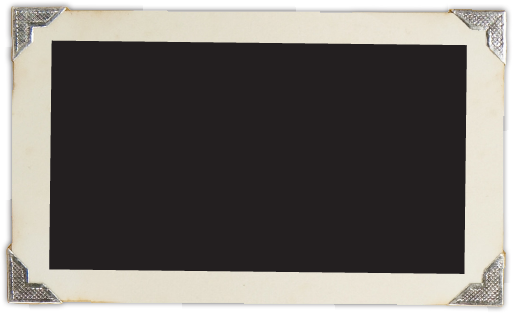
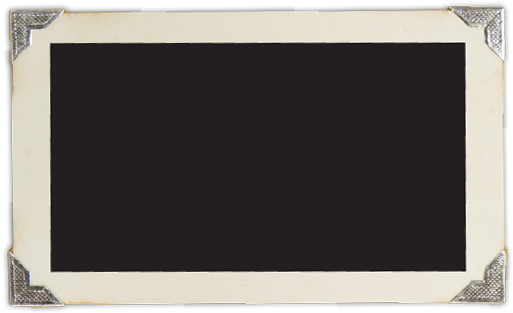
updated files

diff --git a/css/style.css b/css/style.css
@@ -264,6 +264,101 @@ body {
 }
 
 /* ######################################
+	
+####################################### */
+
+.frame-container  {
+	position: absolute;
+	top: 300px;
+	right: 0;
+	padding: 15px;
+}
+
+.frame-container .mid {
+	background: #000;
+	width: 300px;
+	height: 100px;
+	display: block;
+}
+
+.frame-container .tl {
+	width: 95px;
+	height: 95px;
+	position: absolute;
+	top: 0;
+	left: 0;
+	background: url(../images/frame-sprite.png) 0 0;
+	z-index: 10;
+}
+
+.frame-container .tr {
+	width: 95px;
+	height: 95px;
+	position: absolute;
+	top: 0;
+	right: 0;
+	background: url(../images/frame-sprite.png) right 0 ;
+	z-index: 10;
+}
+
+.frame-container .br {
+	width: 95px;
+	height: 95px;
+	position: absolute;
+	bottom: 0;
+	right: 0;
+	background: url(../images/frame-sprite.png) right bottom ;
+	z-index: 10;
+}
+
+.frame-container .bl {
+	width: 95px;
+	height: 95px;
+	position: absolute;
+	bottom: 0;
+	left: 0;
+	background: url(../images/frame-sprite.png) left bottom ;
+	z-index: 10;
+}
+
+.frame-container .tmid {
+	position: absolute;
+	top: 0;
+	left: 10px;
+	height: 95px;
+	width: 90%;
+	background: url(../images/frame-hr.png) 0 0 repeat-x ;
+}
+
+.frame-container .bmid {
+	position: absolute;
+	bottom: 0;
+	left: 10px;
+	height: 95px;
+	width: 90%;
+	background: url(../images/frame-hb.png) 0 bottom repeat-x ;
+}
+
+.frame-container .rmid {
+	position: absolute;
+	top: 10px;
+	right: 0;
+	height: 90%;
+	width: 95px;
+	background: url(../images/frame-vr.png) right 0 repeat-y ;
+}
+
+.frame-container .lmid {
+	position: absolute;
+	top: 10px;
+	left: 0;
+	height: 90%;
+	width: 95px;
+	background: url(../images/frame-vl.png) left 0 repeat-y ;
+}
+
+
+/* ######################################
 	background
 ####################################### */
 
@@ -403,6 +498,81 @@ body {
     z-index: 10;
 }
 
+#scroll3 object {
+    bottom: 90px;
+    position: absolute;
+    right: 783px;
+    z-index: 10;
+}
+
+/* ######################################
+	chapter 5
+####################################### */
+
+#scroll5 .bg {
+	position: absolute;
+	top: -300px;
+	right: 0;
+}
+
+#scroll5 .frame1 {
+    position: absolute;
+    left: 580px;
+    top: 386px;
+    z-index: 10;
+}
+
+#scroll5 .book {
+    position: absolute;
+    right: 1020px;
+    top: 626px;
+    z-index: 10;
+}
+
+#scroll5 blockquote {
+    background: url("../images/chapter8/bg-quote.png") repeat-x scroll 0 0 transparent;
+    color: #000000;
+    display: block;
+    font-family: Georgia;
+    font-size: 24px;
+    height: 130px;
+    left: 260px;
+    padding: 10px 170px;
+    position: absolute;
+    text-align: center;
+    top: 676px;
+    width: 635px;
+    z-index: 10;
+    letter-spacing: 1px;
+}
+
+#scroll5 blockquote em {
+	font-size: 16px;
+}
+
+#scroll5 .textblock1 {
+    position: absolute;
+    right: 736px;
+    text-align: left;
+    top: 303px;
+    width: 512px;
+}
+
+#scroll5 .textblock2 {
+    position: absolute;
+    right: 190px;
+    text-align: left;
+    top: 330px;
+    width: 522px;
+}
+
+#scroll5 .textblock3 {
+    position: absolute;
+    right: 198px;
+    text-align: left;
+    top: 500px;
+    width: 522px;
+}
 
 
 

diff --git a/js/application.js b/js/application.js
@@ -257,7 +257,7 @@ $(document).ready(function() {
 	video.each(function(){
 		scrollorama
 			.animate($(this),{ duration: 600, property:'rotate', start: Math.random()*720-360 })
-			.animate($(this),{ delay: 400, duration: 200, property:'bottom', start:400 })
+			.animate($(this),{ delay: 400, duration: 200, property:'bottom', start:1400 })
 	});
 	
 	bg3.each(function(){

diff --git a/index.php b/index.php
@@ -1,7 +1,7 @@
 <!DOCTYPE html>
 <html lang="en">
 <head>
-	<title>scrollarama</title>
+	<title>Woods Canada</title>
 	<link rel="stylesheet" href="css/style.css" type="text/css">
 	<link rel="stylesheet" href="css/normalize.css" type="text/css">
 </head>
@@ -25,6 +25,7 @@
 			<li><span class="scroll7">7 <em>1800-1900</em></span></li>
 			<li><span class="scroll8">8 <em>1800-1900</em></span></li>
 			<li><span class="scroll9">9 <em>1800-1900</em></span></li>
+			<li><span class="scroll10">10 <em>1800-1900</em></span></li>
 		</ul>
 	</div>
 	<div id="wrap">
@@ -58,6 +59,7 @@
 			<img id="letter" class="letter" src="images/chapter3/letter.png" alt="letter" />
 			<img id="frame1" class="frame1" src="images/chapter3/frame1.png" alt="frame" />
 			<img id="video" class="video" src="images/chapter3/video.png" alt="video" />
+			<object width="416" height="234"><param name="movie" value="http://www.youtube.com/v/lUFlz70KuBI?version=3&amp;hl=en_GB&amp;rel=0"></param><param name="allowFullScreen" value="true"></param><param name="allowscriptaccess" value="always"></param><embed src="http://www.youtube.com/v/lUFlz70KuBI?version=3&amp;hl=en_GB&amp;rel=0" type="application/x-shockwave-flash" width="416" height="234" allowscriptaccess="always" allowfullscreen="true"></embed></object>
 			<h1 class="rotate">Chapter 3</h1>
 			<h2 class="rotate">Early 20th century at home</h2>
 			<p class="textblock rotate">Back home in Canada, the nation was expanding
@@ -74,10 +76,26 @@
 	
 		</div>
 		<div class="scrollblock" id="scroll4">
-
+			
 		</div>
 		<div class="scrollblock" id="scroll5">
-
+			<h1 class="rotate">Chapter 5</h1>
+			<h2 class="rotate">A defining moment in Canadian history</h2>
+			<p class="textblock1 rotate">With the news of Amundsen's Artic journey and those of others
+			at the time, the Canadian government was awakening to vital issues of Artic sovereignty. Part
+			of their <img src="images/chapter8/transparent.png" alt="transparent" style="float: right; height: 240px; width: 200px;" />response was to underline their claim on the region with Primie Minister Sir Robert
+			Borden's sponsorship of the Canadian Arctic Expedition in 1913. As a multidisciplinary study
+			of the Arctic and its people, the expedition was the first of its kind. Led by Vilhjalmur
+			Steffanson, the Canadian-born son of Icelandic immigrants, the five year mission was
+			not without its perils with 17 crew members lost. However, results of the CAE were enormously
+			significant, including the discovery of three new Canadian Islands,</p>
+			
+			<p class="textblock2 rotate">correction of centuries-old mapping errors, the uncovering
+			of mineral deposits and immense archeological, biological and geological surveys.
+			The CAE's observations were captured on sounds recordings, nearly 4,000 photographs and
+			9,000 feet of motion picture film.  Well documented in this collection are several
+			images of Woods canvas products, including tents, sleeping bags and the down-filled
+			Woods Artic Parka, which had been developed specially for the mission.</p>
 		</div>
 		<div class="scrollblock" id="scroll6">	
 			<img id="bg6" class="bg" src="images/chapter6/bg-six.png" alt="bg chapter six" />
@@ -189,6 +207,21 @@
 				the Canadian Team with tents, sleeping<br /> bags and parkas they would use at
 				the<br /> world's greatest heights.
 			</p>
+		</div>
+		<div class="scrollblock" id="scroll10">
+			<div class="frame-container rotate">
+				<span class="tl"></span>
+				<span class="tr"></span>
+				<span class="mid"></span>
+				<span class="bl"></span>
+				<span class="br"></span>
+				<span class="tmid"></span>
+				<span class="bmid"></span>
+				<span class="rmid"></span>
+				<span class="lmid"></span>
+			</div>
+			<h1 class="rotate">Chapter 10</h1>
+			<h2 class="rotate">1982 - Reaching new heights</h2>
 		</div>
 	</div>
 </div><!-- end body-wrapper -->
